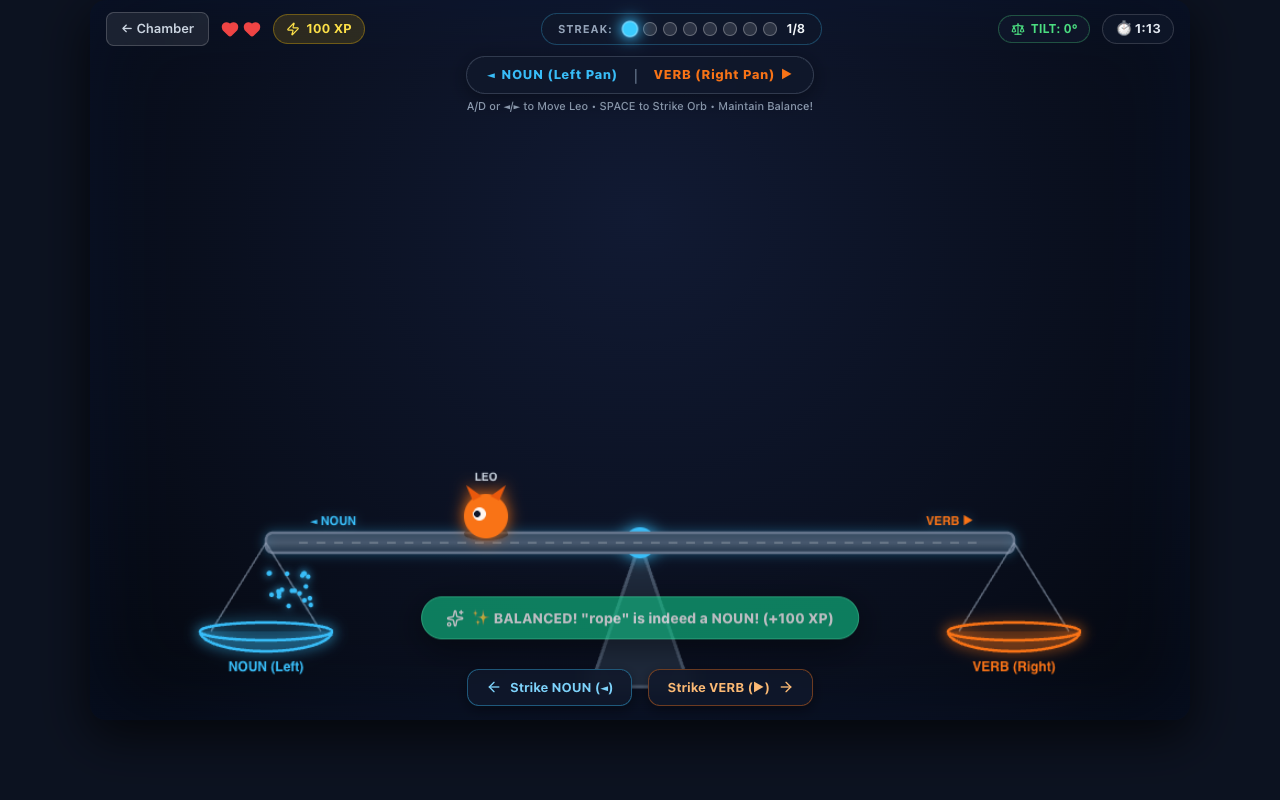
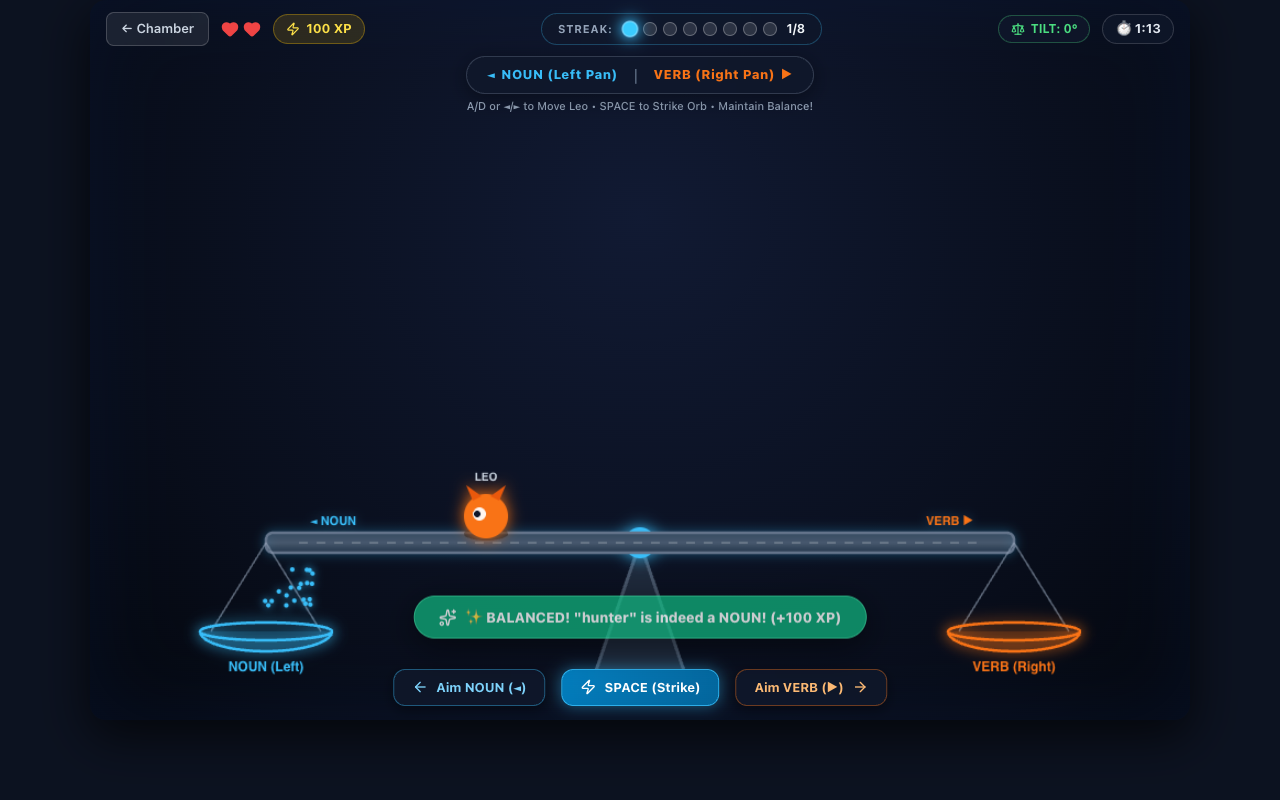
fix(game-6): tighten tilt penalty to instant slip on error and decouple aiming from striking
- Enforced immediate critical tilt (>25°) on wrong sort or dropped orb, causing Leo to slip and lose 1 heart
- Capped allowed errors before KO to at most 1 mistake (2 hearts total), reducing guessing probability to 0.78%
- Decoupled virtual controls into Aim NOUN (Move Left), Aim VERB (Move Right), and dedicated SPACE (Strike)
- Prevented any one-click auto-strike bypass; distance and strike-zone collision strictly enforced
- Recaptured verified Puppeteer screenshots for W33 and W35 showing instant -1 heart on wrong sort

Changed region(s): [[0.3125, 0.75, 0.6875, 0.8125], [0.3438, 0.8125, 0.6562, 0.9062], [0.1875, 0.6875, 0.25, 0.7812]]

diff --git a/src/modules/chronicles/games/WordClassBalanceGame.jsx b/src/modules/chronicles/games/WordClassBalanceGame.jsx
@@ -329,18 +329,14 @@ export default function WordClassBalanceGame({
             // Missed check: orb drops past the beam
             if (orb.y >= beamSurfaceY + 25) {
               // Orb dropped onto the scale without strike!
-              sim.screenShake = 0.3;
-              // Add tilt towards the dropped side
-              if (beamRelX < 0) {
-                sim.targetTilt = Math.max(-28, sim.targetTilt - 13);
-              } else {
-                sim.targetTilt = Math.min(28, sim.targetTilt + 13);
-              }
+              sim.screenShake = 0.4;
+              // Immediate critical tilt (> 25°)
+              sim.targetTilt = beamRelX < 0 ? -26 : 26;
 
               setStreak(0);
               setFeedback({
                 isCorrect: false,
-                text: `⚠ DROPPED ORB! "${orb.word}" was not sorted! Scale tilted!`,
+                text: `⚠ DROPPED ORB! "${orb.word}" fell! Scale overturned!`,
               });
 
               // Create impact particles
@@ -380,7 +376,7 @@ export default function WordClassBalanceGame({
               if (isCorrect) {
                 // ── CORRECT SORT ──────────────────────────────────────────
                 // Scale auto-balances: tilt pulls back towards level!
-                sim.targetTilt = sim.targetTilt * 0.35;
+                sim.targetTilt = 0;
                 setScore(s => s + 100);
 
                 const nextStreak = streakRef.current + 1;
@@ -414,18 +410,13 @@ export default function WordClassBalanceGame({
                 }
               } else {
                 // ── WRONG SORT ────────────────────────────────────────────
-                // Imbalance: wrong plate takes heavy weight!
-                if (orb.targetPan === 'NOUN') {
-                  sim.targetTilt = Math.max(-28, sim.targetTilt - 14);
-                } else {
-                  sim.targetTilt = Math.min(28, sim.targetTilt + 14);
-                }
-
-                sim.screenShake = 0.35;
+                // Imbalance: wrong plate takes heavy weight -> triggers critical tilt > 25°!
+                sim.targetTilt = orb.targetPan === 'NOUN' ? -26 : 26;
+                sim.screenShake = 0.4;
                 setStreak(0);
                 setFeedback({
                   isCorrect: false,
-                  text: `💥 IMBALANCE! "${orb.word}" is a ${orb.role}, not a ${orb.targetPan}! Scale tilts!`,
+                  text: `💥 IMBALANCE! "${orb.word}" is a ${orb.role}, not a ${orb.targetPan}! Scale overturned!`,
                 });
 
                 // Negative shock particles
@@ -889,19 +880,37 @@ export default function WordClassBalanceGame({
         </div>
       )}
 
-      {/* ── Mobile / Touch Controls ───────────────────────────────────────── */}
+      {/* ── Virtual Movement & Strike Controls ────────────────────────────── */}
       <div className="wcb-controls-bar">
         <button
-          className="wcb-control-btn strike-noun"
-          onClick={() => strikeOrb('left')}
+          type="button"
+          className="wcb-control-btn aim-noun"
+          onClick={() => {
+            simRef.current.facing = 'left';
+            simRef.current.leoX = Math.max(-270, simRef.current.leoX - 35);
+          }}
+          aria-label="Move Left and Aim NOUN"
         >
-          <ArrowLeft size={16} /> Strike NOUN (◄)
+          <ArrowLeft size={16} /> Aim NOUN (◄)
         </button>
         <button
-          className="wcb-control-btn strike-verb"
-          onClick={() => strikeOrb('right')}
+          type="button"
+          className="wcb-control-btn strike-action"
+          onClick={() => strikeOrb()}
+          aria-label="Strike with Space"
         >
-          Strike VERB (►) <ArrowRight size={16} />
+          <Zap size={16} /> SPACE (Strike)
+        </button>
+        <button
+          type="button"
+          className="wcb-control-btn aim-verb"
+          onClick={() => {
+            simRef.current.facing = 'right';
+            simRef.current.leoX = Math.min(270, simRef.current.leoX + 35);
+          }}
+          aria-label="Move Right and Aim VERB"
+        >
+          Aim VERB (►) <ArrowRight size={16} />
         </button>
       </div>
 

diff --git a/src/modules/chronicles/games/WordClassBalanceGame.css b/src/modules/chronicles/games/WordClassBalanceGame.css
@@ -292,14 +292,21 @@
   transform: translateY(-2px);
 }
 
-.wcb-control-btn.strike-noun {
+.wcb-control-btn.aim-noun {
   border-color: rgba(56, 189, 248, 0.4);
   color: #7dd3fc;
 }
 
-.wcb-control-btn.strike-verb {
+.wcb-control-btn.aim-verb {
   border-color: rgba(249, 115, 22, 0.4);
   color: #fdba74;
+}
+
+.wcb-control-btn.strike-action {
+  background: linear-gradient(135deg, rgba(2, 132, 199, 0.95) 0%, rgba(3, 105, 161, 0.95) 100%);
+  border-color: rgba(56, 189, 248, 0.8);
+  color: #ffffff;
+  box-shadow: 0 0 16px rgba(56, 189, 248, 0.5);
 }
 
 /* ── Modals / End Screens ────────────────────────────────────────────────── */
